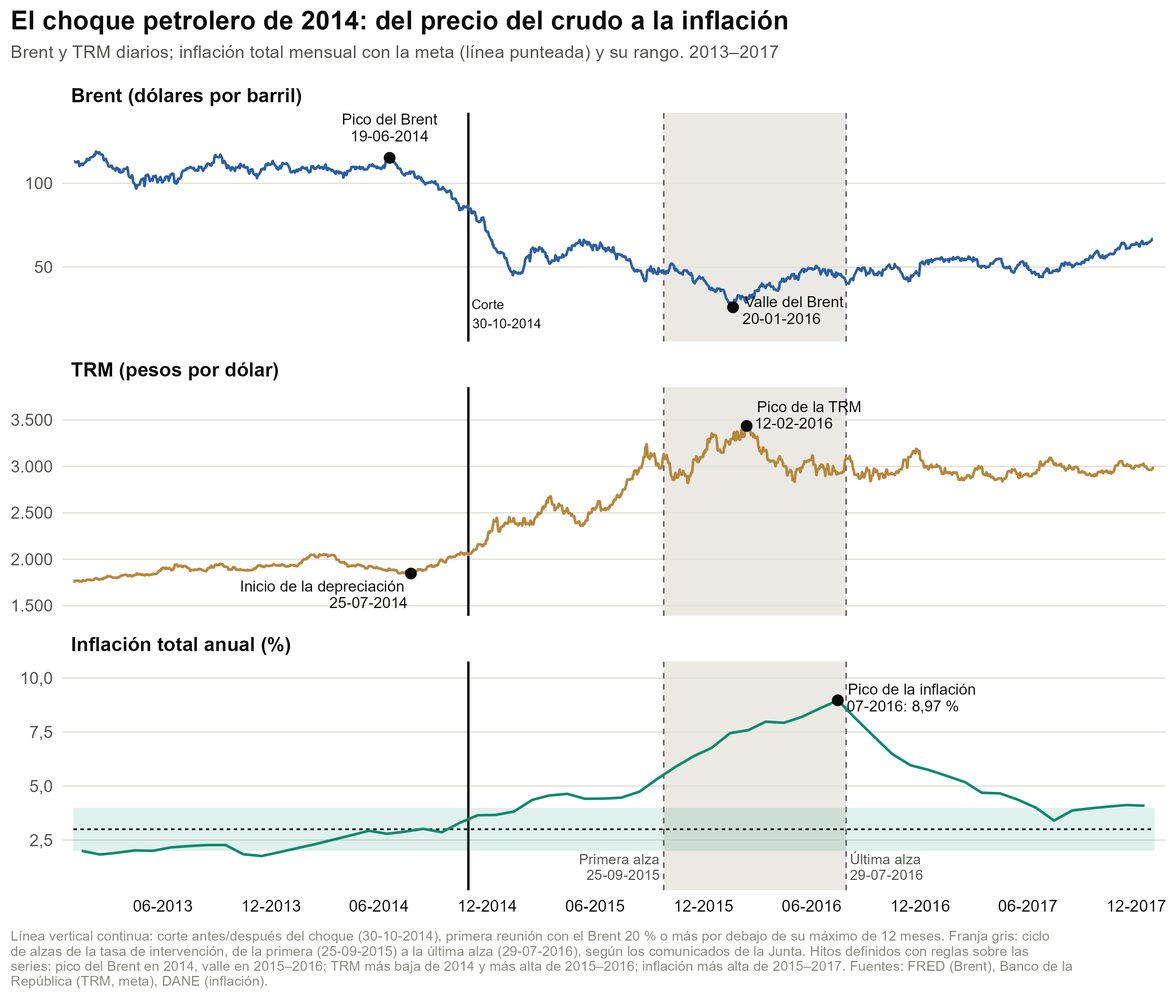
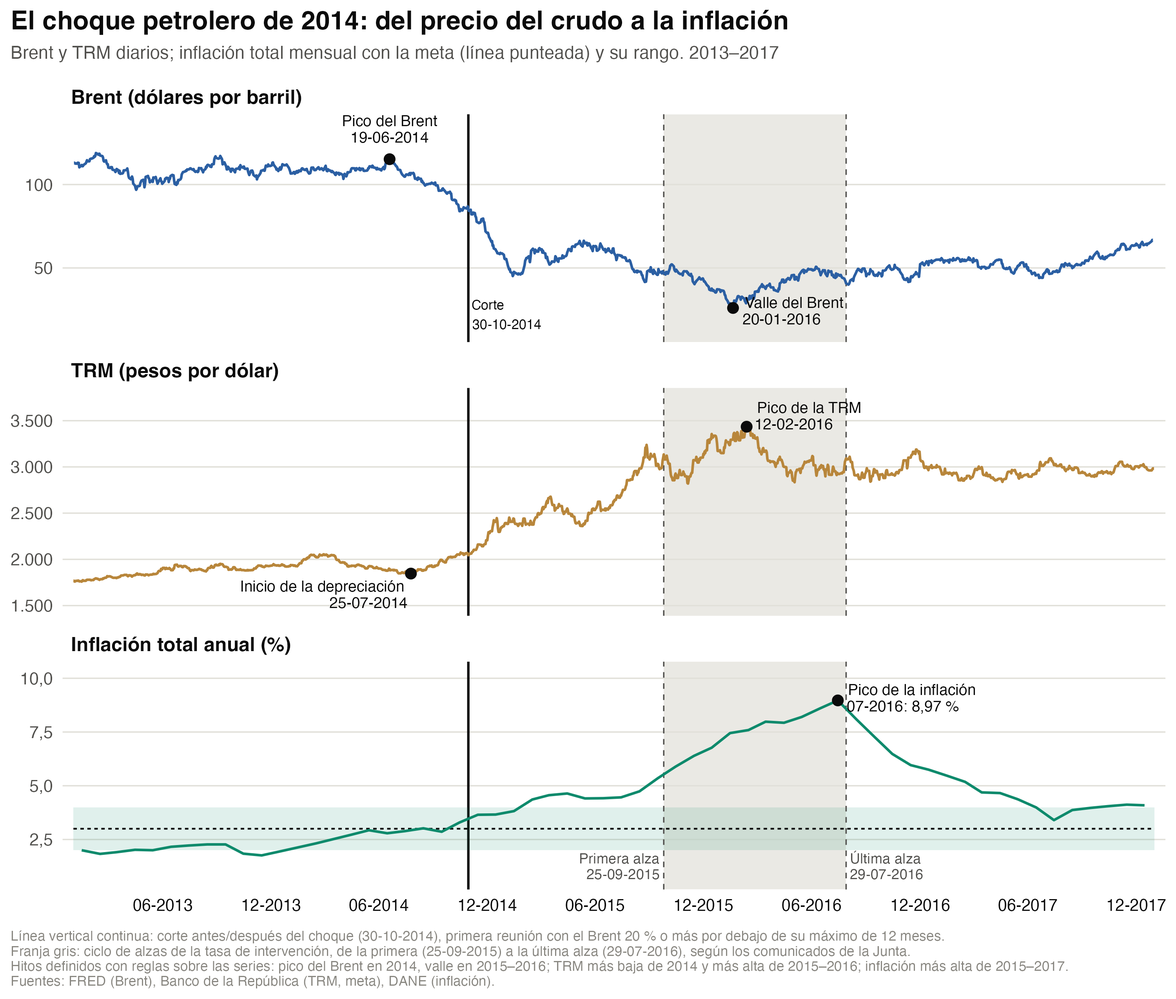
Ajustar la nota al pie de las figuras y agregar el hito H3 (LDA) al plan
Una oración por renglón y fuentes al final en las figuras de 07_graficas_macro.R;
reglas registradas en CLAUDE.md. PLAN.md: nuevo H3 (LDA), embeddings pasa a H4
e interpretación a H5.

Bitácora: 06_Bitacoras/2026-11-21_formato-notas-y-plan-lda.md

diff --git a/CLAUDE.md b/CLAUDE.md
@@ -733,7 +733,13 @@ solo define paleta, tema y exportación.
   serie macro y su fuente) y el periodo.
 - **Nota al pie (`caption`):** reporta el `n` de documentos y, cuando hay una
   línea de referencia, qué marca. En series de tiempo con texto y macro,
-  indicar la regla de alineación temporal.
+  indicar la regla de alineación temporal. **Las fuentes van siempre en el
+  último renglón** (decidido el 2026-11-21): primero la información relevante
+  para leer la figura (qué marcan el sombreado y las líneas, `n`, regla de
+  alineación) y al final las fuentes de los datos. **Una oración por renglón**
+  (decidido el 2026-11-21): el `caption` se arma con
+  `paste(oracion_1, oracion_2, ..., sep = "\n")` y `guardar_figura()` parte cada
+  renglón por aparte según el ancho de la figura, para mejorar la legibilidad.
 - **Series de tiempo:** el eje x es la fecha de la reunión; se sugiere marcar
   episodios de referencia (p. ej. ciclos de la tasa de intervención, pandemia)
   con sombreado gris tenue, definidos una sola vez en el script de formato.
@@ -789,7 +795,7 @@ solo define paleta, tema y exportación.
 | 2026-11-18 | **Paso 4 de la limpieza descarta símbolos, no solo dígitos.** En `02_limpiar_texto.R` un token solo se conserva si cumple `^[a-zñ_]+(-[a-zñ_]+)*$` (letras, `_` de los compuestos y guion interno), y el guion final se quita antes de filtrar (verbos cortados a fin de renglón, «registrar-» → «registrar»). Quedan fuera restos de formato como «-ar», «*estar», «m/n» y «#juntabanrep». Los guiones internos se conservan («minero-energetico», «sub-canasta»). | Medido antes del cambio: 383 tokens (0,2 %) con símbolos y 122 términos afectados. Efecto: 176.750 → 176.622 tokens limpios y 3.884 → 3.807 términos distintos; el paso 4 pasa de quitar 50 a 164 tokens en minutas completas. Es un cambio mecánico, sin juicio de contenido; no se tocaron las listas de palabras vacías. Las tablas que sostienen las tres notas de `05_Notas/` no cambiaron. |
 | 2026-11-18 | **Pregunta del taller:** «¿Cómo cambiaron los temas de interés de la Junta del Banco de la República antes y después de la crisis del petróleo de 2014 en Colombia?». Las series macro (caída del precio del petróleo, aumento de la TRM, efecto sobre la inflación) cuentan la historia y se relacionan con los cambios de temas. Método previsto: embeddings de palabras (GloVe o Word2Vec) para comparar de qué se hablaba antes y después. **Pendiente de definir:** la fecha de corte antes/después (candidato de partida: el periodo P4, que abre el 2014-09-26 y ya está fijado a priori, sin ver medidas de texto; el Brent empieza a caer a mediados de 2014), el tipo de documento (comunicados, minutas o ambos; en minutas, la versión «solo discusión de la Junta»), el paquete de embeddings y su especificación (dimensión, ventana, unidad de texto, cómo comparar dos épocas) y el papel de LDA (ya en el catálogo) frente a los embeddings. | Pregunta acordada por el equipo y comunicada por Santiago Muñoz Martínez. **Los embeddings (GloVe/Word2Vec) están en "Fuera del catálogo" de `07_Recursos/catalogo_metodos.md`**: según la regla metodológica no se usan hasta registrarlos en su "Registro de ampliaciones" con paquete, función y aprobación del equipo. Riesgos a vigilar: (i) el corpus es pequeño (unas 177 mil palabras tras la limpieza, en total) para entrenar embeddings y partirlo en dos épocas; (ii) los cambios de formato de las minutas (ver "Datos") pueden confundirse con cambio de temas; (iii) la historia macro es asociativa, no causal. |
 | 2026-11-18 | **Falta la TRM nominal (resuelto el 2026-11-18: `TRM.csv`, SUAMECA, procesada en `06_series_macro.R`).** Había descargadas tres fuentes (Brent diario de FRED, inflación anual y *tasa de cambio real*; ver "Definición de variables"). La pregunta habla de la TRM (tasa de cambio nominal, COP/USD), que no está descargada: se consigue y documenta (fuente con URL y fecha de consulta) o se justifica usar la tasa de cambio real. | La pregunta menciona explícitamente el aumento de la TRM; el índice de tasa de cambio real no es la misma serie. |
-| 2026-11-19 | **Fecha de corte antes/después del choque petrolero: 2014-10-30 (H2 de `PLAN.md`).** Regla (i): primera reunión de la Junta en que el Brent que tenía (cierre del día hábil anterior) estaba 20 % o más por debajo de su máximo de los 12 meses previos, buscando desde el 2014-01-01. El primer día en que se cumple es el 2014-10-02 y la primera reunión, el 2014-10-30 (Brent 86,9 USD, −24,6 % frente al máximo; TRM 2.045, +8,6 % anual; inflación total 2,9 %). «Antes» = reuniones anteriores al 2014-10-30; «después» = desde esa fecha. **Cortes alternativos para la robustez de H3:** (a) 2014-09-26, apertura de P4 (primera reunión sin alza tras el ciclo de abril a agosto de 2014; Brent −17,4 %); (b) 2014-12-19, primera reunión con depreciación anual de la TRM mayor que 20 % (+20,0 %; Brent −48,9 %). Las fechas viven en `corte_crisis` y `cortes_alternativos` (`00_funciones_texto.R`); `07_graficas_macro.R` recalcula las reglas y se detiene si dejan de coincidir. **Salvedad de formato:** el corte no coincide con el cambio de formato de las minutas (A → B el 2014-05-30): antes del corte quedan 5 minutas del formato B (4 con la alternativa (a) y 7 con la (b)). En una ventana de 5 años, los comunicados quedan equilibrados (54 reuniones y unas 29.700 palabras antes; 53 y unas 30.600 después), pero las minutas no (59 reuniones y unas 43.800 palabras de la discusión de la Junta antes; 53 y unas 23.100 después): la diferencia es de formato y hay que normalizar por extensión. | Fijado solo con las series macro alineadas por reunión y con las decisiones de tasa, sin mirar ninguna medida de texto, para que el antes/después no se elija donde más cambia el texto. Se prefiere la regla (i) porque usa la variable de la pregunta (el precio del petróleo) con el umbral convencional de un mercado bajista: la apertura de P4 marca el fin de las alzas de 2014, que respondían a la demanda interna y no al petróleo, y la depreciación de la TRM es el canal de transmisión, no el choque. Solo una reunión cambia de lado frente a la apertura de P4. Aprobado por Samuel Escandón. Tablas: `03_Resultados/Tablas/07_graficas_macro/macro_cortes_candidatos.png` y `conjunto_ventanas_corte.png`. |
+| 2026-11-19 | **Fecha de corte antes/después del choque petrolero: 2014-10-30 (H2 de `PLAN.md`).** Regla (i): primera reunión de la Junta en que el Brent que tenía (cierre del día hábil anterior) estaba 20 % o más por debajo de su máximo de los 12 meses previos, buscando desde el 2014-01-01. El primer día en que se cumple es el 2014-10-02 y la primera reunión, el 2014-10-30 (Brent 86,9 USD, −24,6 % frente al máximo; TRM 2.045, +8,6 % anual; inflación total 2,9 %). «Antes» = reuniones anteriores al 2014-10-30; «después» = desde esa fecha. **Cortes alternativos para la robustez de H4:** (a) 2014-09-26, apertura de P4 (primera reunión sin alza tras el ciclo de abril a agosto de 2014; Brent −17,4 %); (b) 2014-12-19, primera reunión con depreciación anual de la TRM mayor que 20 % (+20,0 %; Brent −48,9 %). Las fechas viven en `corte_crisis` y `cortes_alternativos` (`00_funciones_texto.R`); `07_graficas_macro.R` recalcula las reglas y se detiene si dejan de coincidir. **Salvedad de formato:** el corte no coincide con el cambio de formato de las minutas (A → B el 2014-05-30): antes del corte quedan 5 minutas del formato B (4 con la alternativa (a) y 7 con la (b)). En una ventana de 5 años, los comunicados quedan equilibrados (54 reuniones y unas 29.700 palabras antes; 53 y unas 30.600 después), pero las minutas no (59 reuniones y unas 43.800 palabras de la discusión de la Junta antes; 53 y unas 23.100 después): la diferencia es de formato y hay que normalizar por extensión. | Fijado solo con las series macro alineadas por reunión y con las decisiones de tasa, sin mirar ninguna medida de texto, para que el antes/después no se elija donde más cambia el texto. Se prefiere la regla (i) porque usa la variable de la pregunta (el precio del petróleo) con el umbral convencional de un mercado bajista: la apertura de P4 marca el fin de las alzas de 2014, que respondían a la demanda interna y no al petróleo, y la depreciación de la TRM es el canal de transmisión, no el choque. Solo una reunión cambia de lado frente a la apertura de P4. Aprobado por Samuel Escandón. Tablas: `03_Resultados/Tablas/07_graficas_macro/macro_cortes_candidatos.png` y `conjunto_ventanas_corte.png`. |
 
 ## Análisis descartados
 

diff --git a/PLAN.md b/PLAN.md
@@ -4,7 +4,7 @@
 
 ## Contexto
 
-Pregunta fijada 2026-11-18. Ya existe: texto extraído y limpio (`01`–`05`), series Brent/TRM/inflación en `03_Listos/` (`06_series_macro.R`). Falta: gráficas macro, corte, embeddings (no registrados en catálogo), interpretación.
+Pregunta fijada 2026-11-18. Ya existe: texto extraído y limpio (`01`–`05`), series Brent/TRM/inflación en `03_Listos/` (`06_series_macro.R`). Falta: gráficas macro, corte, LDA (H3), embeddings (no registrados en catálogo), interpretación.
 
 ## H1 — Gráficas macro + exploración descriptiva breve
 
@@ -20,47 +20,68 @@ Pregunta fijada 2026-11-18. Ya existe: texto extraído y limpio (`01`–`05`), s
 - [x] **P2.2** Añadir línea vertical del corte a las figuras de H1.
 - [x] **P2.3** Registrar en "Decisiones tomadas" (`CLAUDE.md`). Ojo: minutas cambian formato 2014-05-30 (A→B) ≈ corte → declarar.
 
-## H3 — Embeddings antes/después
+## H3 — LDA: tópicos legibles con balance perplejidad–coherencia
 
-### P3.1 Ventana (años)
+Corpus: minutas, solo discusión de la Junta (`minuta_junta`, 199 documentos); documento = minuta entera. Comunicados solo como chequeo posterior. Entrada: `vocabulario_lda.rds`, `tokens_limpios.rds`.
+
+- [ ] **P3.1** Registrar la regla de selección en "Decisiones tomadas" (`CLAUDE.md`) **antes de correr y de ver tópicos**:
+  - Rejilla: K ∈ {4, 6, 8, 10, 12, 16} × α ∈ {0,1; 0,5; 1}, δ = 1 (valor del lab), Gibbs con 300 iteraciones, 3 pliegues, `set.seed(2026)` y `control$seed = 2026`. Después, con K elegido, comparar δ ∈ {0,1; 1} (procedimiento del lab). 54 ajustes en la primera rejilla, no los 162 del lab.
+  - Regla de balance: para cada K, el mejor α; se ordenan los K por perplejidad (menor mejor) y por coherencia UMass media (más cercana a cero mejor); se elige el K con menor **suma de rangos** (empate: el K menor). Se reportan también los K vecinos, para ver la sensibilidad.
+  - Chequeo de legibilidad (después de elegir K, no cambia la regla): si un tópico concentra más de 70 % de su peso en un solo formato de minuta (A a E), se marca como posible artefacto de formato y se informa; no se descarta en silencio.
+  - Declarar que la perplejidad es criterio de selección del modelo, no un pronóstico, así que los pliegues son aleatorios por documento (no hay predicción de una serie en el tiempo).
+- [ ] **P3.2** Funciones auxiliares en `02_Scripts/00_funciones_texto.R`: `partir_mitades()`, `perplejidad()` (document completion con `posterior(modelo, newdata = A)`, `exp(-Σ log p / N)`) y `coherencia()` (UMass, 10 palabras principales). Mover ahí desde `05_lda_exploratorio.R` `estimar_lda()`, `resumen_topicos()` y `documentos_representativos()`, con sus entradas como argumentos; `05` las llama. Criterio: las tablas de `05` salen iguales (`git diff` de sus `.csv` sin cambios).
+- [ ] **P3.3** Script `02_Scripts/08_lda.R` (+ `08_lda` en `carpetas_salida` y `scripts` de `00_main.R`):
+  1. Rejilla y selección de K con la regla de P3.1. Tabla `minutas_lda_seleccion_k.png` (perplejidad, costo % frente al mínimo, coherencia, suma de rangos, K elegido) y figura `minutas_lda_perplejidad_coherencia.png` (las dos medidas por K, K elegido marcado).
+  2. Estimar el LDA final con el K elegido (Gibbs, 1.000 iteraciones, 200 de calentamiento).
+  3. Validación de tópicos: tabla top beta y lift, tabla de las 3 minutas más representativas con fragmento (fecha + tipo), peso por formato A a E. **Los nombres se asignan solo con esos ejemplos.**
+  4. Guardar `01_Datos/03_Listos/lda_theta.rds` (θ por minuta) para H5.
+  5. `stopifnot()` al final: 199 minutas, filas de θ suman 1, coherencia ≤ 0, perplejidad menor que el tamaño del vocabulario (la de un modelo uniforme).
+- [ ] **P3.4** Atención por tópico antes y después del corte (2014-10-30): θ medio por lado, normalizado por extensión, con la figura del formato de `05`. Es entrada de H5; la lectura es asociativa.
+- [ ] **P3.5** Nota `05_Notas/08_lda/T_*.md` (skill `registrar-hallazgo`), contrastada con las notas de `03_frecuencias_tfidf` y con los episodios de política monetaria; README (mapa script → salidas) y "Decisiones tomadas" actualizados.
+
+Riesgos del hito: (i) corpus chico (62 mil tokens, 199 documentos): θ ruidoso en minutas cortas (formato C, unas 400 palabras) y tópicos inestables; mitigación: reportar K vecinos y repetir la estimación final con 3 semillas, informando solo tópicos que se repiten; (ii) el corte 2014-10-30 casi coincide con el cambio de formato A→B (2014-05-30).
+
+## H4 — Embeddings antes/después
+
+### P4.1 Ventana (años)
 
 - [ ] Recomendado: **5 años a cada lado** → antes 2009-09-26 a 2014-09-25; después 2014-09-26 a 2019-09-25.
   - Por qué: simétrico, deja fuera crisis 2008 y pandemia 2020.
   - Alternativa: antes = todo desde 2007 (7,7 años), después = hasta 2020-03 (5,5 años).
 - [ ] Contar docs y tokens por época; si un lado < ~40 mil tokens, ampliar ventana.
 
-### P3.2 Qué embeddings
+### P4.2 Qué embeddings
 
 - [ ] Recomendado: **Word2Vec skip-gram, paquete `word2vec`** (`word2vec::word2vec()`, `predict(type="nearest")`). Rinde mejor que GloVe en corpus chico.
 - [ ] Spec inicial: dim 50–100, ventana 5, min_count 5, iter 20+, `set.seed(2026)` y `threads = 1` (reproducible).
 - [ ] Documento: minutas, versión «solo discusión de la Junta» + comunicados como chequeo. Unidad = oración.
 - [ ] Registrar ampliación en `07_Recursos/catalogo_metodos.md` + "Decisiones tomadas" **antes** de correr. Agregar `word2vec` a `p_load()`.
 
-### P3.3 Modelo y comparación
+### P4.3 Modelo y comparación
 
-- [ ] Script `08_embeddings.R`: un modelo por época, mismo preprocesamiento (`02_limpiar_texto.R`).
+- [ ] Script `10_embeddings.R` (el 08 es el LDA y el 09 queda para las correlaciones entre palabras): un modelo por época, mismo preprocesamiento (`02_limpiar_texto.R`).
 - [ ] Palabras ancla fijadas antes: `petroleo`, `inflacion`, `tasa_cambio`/`devaluacion`, `tasa_intervencion`, `crecimiento`, `deficit`, `expectativas`.
 - [ ] Medida: vecinos más cercanos por época + solapamiento (Jaccard top-10) → palabras que más cambian de contexto.
 - [ ] Estabilidad: repetir con 5 semillas; reportar solo vecinos que se repiten.
 - [ ] Complemento barato (ya en catálogo): frecuencia relativa de anclas por 1.000 palabras, antes vs después.
 - [ ] Tablas `conjunto_vecinos_antes_despues.png`, figura de cambio por ancla.
 
-## H4 — Interpretación con historia macro
+## H5 — Interpretación con historia macro
 
-- [ ] **P4.1** Cruzar cambios de vecinos con H1 (p. ej. `tasa_cambio` pasa de «competitividad» a «traspaso/inflación»?).
-- [ ] **P4.2** Fragmentos textuales de cada cambio (fecha + tipo doc). Sin ejemplo, no entra.
-- [ ] **P4.3** Descartar formato: comparar con minutas formato B vs comunicados; normalizar por extensión.
-- [ ] **P4.4** Notas `X_*.md`; asociativo, no causal.
-- [ ] **P4.5** Deck borrador `04_Presentaciones/` → final `08_Entregables/` (answer-first, ≤15 min).
+- [ ] **P5.1** Cruzar cambios de vecinos con H1 (p. ej. `tasa_cambio` pasa de «competitividad» a «traspaso/inflación»?).
+- [ ] **P5.2** Fragmentos textuales de cada cambio (fecha + tipo doc). Sin ejemplo, no entra.
+- [ ] **P5.3** Descartar formato: comparar con minutas formato B vs comunicados; normalizar por extensión.
+- [ ] **P5.4** Notas `X_*.md`; asociativo, no causal.
+- [ ] **P5.5** Deck borrador `04_Presentaciones/` → final `08_Entregables/` (answer-first, ≤15 min).
 
 ## Riesgos
 
 - Corpus chico → vecinos ruidosos. Mitiga: semillas múltiples + frecuencias.
 - Corte ≈ cambio formato minutas → confusión tema/formato.
-- Tiempo: 4 días. Orden H1 → H2 → H3 → H4.
+- Tiempo: 4 días. Orden H1 → H2 → H3 → H4 → H5.
 
 ## Verificación
 
 - `00_main.R` desde cero sin errores, regenera figuras/tablas nuevas.
-- `stopifnot()` al final de `07`/`08` (n docs por época, anclas presentes).
+- `stopifnot()` al final de `07`/`08`/`10` (n docs por época, anclas presentes).
 - README con mapa script → salidas actualizado.

diff --git a/HANDOFF.md b/HANDOFF.md
@@ -16,48 +16,46 @@ domingo 22 de noviembre de 2026.**
      cada objetivo cita el paso del plan del que sale. Se reescribe al cerrar
      cada sesión. -->
 
-1. **H3, P3.1 y P3.3 de `PLAN.md`: medida principal antes/después con
-   `pairwise_cor()`.**
-   - **Recomendación (sesión del 2026-11-19):** usar la correlación entre
-     palabras de `widyr::pairwise_cor()` (catálogo, Lab 11, sección 4) como
-     medida principal. Para cada palabra ancla, comparar con qué palabras
-     aparece antes y después del corte.
-     - Por qué: está en el catálogo, se explica con ejemplos del texto y con
-       este corpus es más estable que entrenar dos modelos de embeddings.
-     - Los embeddings quedan como complemento (objetivo 2).
-   - Archivos:
-     - `02_Scripts/08_correlaciones_antes_despues.R`, en `scripts` y
-       `carpetas_salida` de `00_main.R`;
-     - `widyr` en el `p_load()`;
-     - tablas y figuras en su carpeta.
-   - Insumos ya fijados:
-     - `corte_crisis` (2014-10-30) y `cortes_alternativos` (2014-09-26 y
-       2014-12-19) de `00_funciones_texto.R`;
-     - ventana recomendada de 5 años a cada lado;
-     - anclas de P3.3, fijadas antes de ver resultados;
-     - documento de la unidad oración o reunión, a decidir y registrar.
+1. **H3, P3.1 a P3.3 de `PLAN.md`: LDA con balance perplejidad–coherencia.**
+   - Archivos: fila en "Decisiones tomadas" de `CLAUDE.md` con la regla de
+     selección (**antes** de correr); `partir_mitades()`, `perplejidad()` y
+     `coherencia()` en `00_funciones_texto.R`; `02_Scripts/08_lda.R`, en
+     `scripts` y `carpetas_salida` de `00_main.R`.
+   - Insumos: `vocabulario_lda.rds` (grupo `minuta_junta`), `tokens_limpios.rds`
+     y los ayudantes de `05_lda_exploratorio.R`.
+   - *Terminado cuando:* hay una tabla y una figura de perplejidad y coherencia
+     por K, un K elegido con la regla registrada, y tópicos con top beta, lift
+     y fragmentos de minutas; las tablas de `05` salen iguales tras el
+     refactor; `08_lda.R` corre dos veces con la misma perplejidad.
+2. **H4, P4.1 y P4.3 de `PLAN.md`: medida antes/después con `pairwise_cor()`.**
+   - Recomendación (2026-11-19): correlación entre palabras de
+     `widyr::pairwise_cor()` (catálogo, Lab 11, sección 4) para cada ancla,
+     antes y después del corte; está en el catálogo y es más estable que dos
+     modelos de embeddings con este corpus.
+   - Archivos: `02_Scripts/09_correlaciones_antes_despues.R` (en `scripts` y
+     `carpetas_salida`), `widyr` en el `p_load()`.
+   - Insumos: `corte_crisis` (2014-10-30) y `cortes_alternativos` de
+     `00_funciones_texto.R`; ventana de 5 años a cada lado; anclas de P4.3
+     fijadas antes de ver resultados; unidad oración o reunión, a registrar.
    - *Terminado cuando:* hay una tabla de las palabras más correlacionadas con
      cada ancla antes y después, con los dos cortes alternativos como
-     robustez. Las minutas se normalizan por extensión y se contrastan con los
-     comunicados, y cada cambio lleva un fragmento del texto.
-2. **H3, P3.2 de `PLAN.md`: embeddings como complemento.**
+     robustez, minutas normalizadas por extensión y contrastadas con los
+     comunicados, y un fragmento del texto por cada cambio.
+3. **H4, P4.2 de `PLAN.md`: embeddings como complemento.**
    - Archivos: fila en el "Registro de ampliaciones" de
      `07_Recursos/catalogo_metodos.md`, con paquete, funciones y aprobación del
-     equipo; fila en "Decisiones tomadas"; `word2vec` en el `p_load()`.
+     equipo; fila en "Decisiones tomadas"; `word2vec` en el `p_load()`;
+     `10_embeddings.R`.
    - *Terminado cuando:* la ampliación está registrada **antes** de correr
      cualquier modelo, y los vecinos de las anclas se repiten en 5 semillas.
-3. **H4 de `PLAN.md`: interpretar con la historia macro.**
-   - Archivos: notas `X_*.md` en `05_Notas/`; borrador del deck en
-     `04_Presentaciones/`.
-   - Insumos: `macro_por_reunion.rds` y la nota
-     `05_Notas/07_graficas_macro/M_cronologia_choque_petrolero.md`.
-   - *Terminado cuando:* cada cambio de temas se cruza con la cronología del
-     choque, con un fragmento del texto y la salvedad de asociación, no
-     causalidad.
 
 **Bloqueos y preguntas abiertas:**
 
 - Roles de los integrantes en el Taller 3.
+- La regla de balance del LDA (suma de rangos de perplejidad y coherencia,
+  empate al K menor) es propuesta de la sesión del 2026-11-21: el equipo debe
+  aprobarla antes de correr. Los objetivos de H5 (interpretación y deck) quedan
+  fuera de la lista por el máximo de tres.
 - La validación manual de la votación quedó fuera de `PLAN.md`: decidir si se
   abandona.
 - Corpus pequeño (unas 177 mil palabras limpias) para entrenar embeddings y
@@ -126,13 +124,26 @@ domingo 22 de noviembre de 2026.**
   - Mapa completo en `README.md`.
   - Cuatro notas en `05_Notas/`: estructura de la minuta, inflación como
     validación, votación y cronología del choque petrolero.
-- **Plan:** `PLAN.md` con H1 y H2 terminados. Siguen H3 (antes/después del
-  corte) y H4 (interpretación y deck).
+- **Plan:** `PLAN.md` con H1 y H2 terminados. Siguen H3 (LDA con balance
+  perplejidad–coherencia), H4 (antes/después del corte) y H5 (interpretación y
+  deck).
 - **Reglas:** el catálogo registra `pdftools`, `gt` y `readxl`. Los embeddings
   siguen sin registrar.
-- **Git:** trabajo en `SamuelEscandonC`, al día con `main` (PR #3).
+- **Git:** trabajo en `SantiagoMunozM`, al día con `main` (PR #4). Cambios de la sesión del 2026-11-21 sin mergear a `main`.
 
 ## Registro de sesiones
+
+### 2026-11-21: formato de la nota al pie y nuevo hito H3 (LDA)
+
+- Santiago Muñoz Martínez (`SantiagoMunozM`). La nota al pie de las figuras de
+  `07_graficas_macro.R` queda con una oración por renglón y las fuentes al
+  final (reglas en `CLAUDE.md`). Se agregó el hito H3 (LDA con balance
+  perplejidad–coherencia) a `PLAN.md` y se corrieron los demás: embeddings
+  pasa a H4 e interpretación a H5. No se escribió código de análisis.
+- Bitácora: [2026-11-21_formato-notas-y-plan-lda.md](06_Bitacoras/2026-11-21_formato-notas-y-plan-lda.md)
+- **Siguientes objetivos:** (1) H3, P3.1–P3.3: regla de selección y
+  `08_lda.R`; (2) H4, P4.1 y P4.3: `pairwise_cor()` antes/después;
+  (3) H4, P4.2: registrar los embeddings como ampliación.
 
 ### 2026-11-19: gráficas macro, alineación por reunión y fecha de corte (H1 y H2)
 

diff --git a/06_Bitacoras/2026-11-21_formato-notas-y-plan-lda.md b/06_Bitacoras/2026-11-21_formato-notas-y-plan-lda.md
@@ -1,0 +1,99 @@
+# Bitácora — 2026-11-21: formato de la nota al pie y nuevo hito H3 (LDA) en el plan
+
+Sesión de Santiago Muñoz Martínez, rama `SantiagoMunozM`.
+
+## Resumen
+
+Objetivo: corregir el formato de la nota al pie de las figuras de
+`07_graficas_macro.R`, aclarar la diferencia entre TF-IDF, Word2Vec y LDA, y
+planear un hito nuevo para implementar LDA con tópicos legibles y buen balance
+entre perplejidad y coherencia.
+
+Desarrollo:
+
+1. **Nota al pie.** Se partió cada oración en su propio renglón y se movieron
+   las fuentes al último renglón. Las dos reglas se registraron en `CLAUDE.md`
+   ("Formato de las gráficas").
+2. **Aclaraciones metodológicas (sin archivos).** Se explicó que Word2Vec no es
+   un modelo de tópicos, que LDA no usa embeddings y cómo se nombra un tópico
+   (palabras de mayor beta y lift, documentos representativos).
+3. **Plan.** Se constató que `PLAN.md` no contemplaba LDA. En modo plan se
+   diseñó el hito y el usuario pidió que fuera **H3**, corriendo los demás: los
+   embeddings pasan a H4 y la interpretación a H5. Corpus: minutas, solo la
+   discusión de la Junta (199 minutas); documento: la minuta entera.
+
+De los "Siguientes objetivos" que traía `HANDOFF.md` (H3 con `pairwise_cor()`,
+embeddings, interpretación), ninguno se trabajó; solo se renumeraron. No se
+escribió código de análisis.
+
+## Archivos
+
+- Creados: esta bitácora.
+- Modificados: `02_Scripts/00_formato_graficas.R`, `02_Scripts/07_graficas_macro.R`,
+  `02_Scripts/00_funciones_texto.R` (un comentario), `CLAUDE.md`, `PLAN.md`,
+  `HANDOFF.md`, `03_Resultados/Figuras/07_graficas_macro/macro_series_2007_2026.png`
+  y `macro_cronologia_choque.png`.
+- Eliminados: ninguno.
+
+## Detalle por archivo
+
+### `02_Scripts/00_formato_graficas.R`
+`guardar_figura()` partía la nota con `str_wrap`, que trata los `\n` como
+espacios y junta todo en un párrafo. Ahora separa el texto en renglones por
+`\n` y parte cada uno por aparte según el ancho de la figura. Una nota sin `\n`
+sale igual que antes, así que las demás figuras no cambian.
+
+### `02_Scripts/07_graficas_macro.R`
+Los `caption` de las dos figuras se arman con `paste(..., sep = "\n")`, una
+oración por elemento. En la figura de series, las fuentes pasaron al final;
+la de cronología ya las tenía al final.
+
+### `CLAUDE.md`
+- Bullet de la nota al pie: las fuentes van siempre en el último renglón y
+  una oración por renglón (decidido el 2026-11-21).
+- Celda de "Decisiones tomadas" del 2026-11-19: «robustez de H3» → «robustez
+  de H4» por la renumeración. Mismo cambio en un comentario de
+  `00_funciones_texto.R`.
+
+### `PLAN.md`
+Hito nuevo **H3 — LDA** (P3.1 a P3.5):
+- P3.1 regla de selección, registrada en "Decisiones tomadas" **antes** de ver
+  tópicos: rejilla K ∈ {4, 6, 8, 10, 12, 16} × α ∈ {0,1; 0,5; 1}, δ = 1, Gibbs
+  con 300 iteraciones, 3 pliegues, semilla 2026 (54 ajustes, no los 162 del
+  laboratorio). Balance: para cada K el mejor α; se ordenan los K por
+  perplejidad y por coherencia UMass y se elige la menor suma de rangos
+  (empate: el K menor). Chequeo de artefacto de formato: un tópico con más de
+  70 % de su peso en un formato de minuta se marca.
+- P3.2 funciones `partir_mitades()`, `perplejidad()` y `coherencia()` (el código
+  del laboratorio no está en el repo) y mover a `00_funciones_texto.R` los
+  ayudantes de `05_lda_exploratorio.R`.
+- P3.3 script `08_lda.R`; P3.4 atención por tópico antes y después del corte;
+  P3.5 nota de hallazgo y README.
+Renumeración: embeddings H3 → H4 (P4.x, script `10_embeddings.R`) e
+interpretación H4 → H5 (P5.x).
+
+La perplejidad por *document completion* es criterio de selección del modelo,
+no un pronóstico de una serie; por eso sus pliegues son aleatorios por
+documento y no chocan con la regla de evaluación temporal.
+
+### `HANDOFF.md`
+Solo se renumeraron referencias en "Siguientes objetivos" y "Estado actual";
+la reescritura completa va en el Paso 2.
+
+## Resultados nuevos (tablas, figuras, gráficos)
+
+Sin resultados nuevos: las dos figuras de `07_graficas_macro` se regeneraron
+solo para cambiar la nota al pie. Las series, los periodos y las cifras no
+cambiaron, así que las notas de `05_Notas/` siguen vigentes. Las tablas y el
+`.rds` que regenera el script difirieron únicamente por ruido de punto
+flotante y de render de Chrome; se restauraron con `git checkout`.
+
+## Pendientes
+
+- **Implementar H3** (P3.1 a P3.3): registrar la regla en "Decisiones tomadas"
+  y escribir `08_lda.R`. La regla de balance (suma de rangos) es propuesta de la
+  sesión y el equipo debe aprobarla antes de correr.
+- Las medidas de H4 (`pairwise_cor()` y embeddings) siguen sin implementar. El
+  `PLAN.md` y el `HANDOFF.md` no coincidían en cuál es la principal: se
+  numeraron `09_correlaciones_antes_despues.R` y `10_embeddings.R`.
+- Tiempo: la entrega vence el 22 de noviembre.
